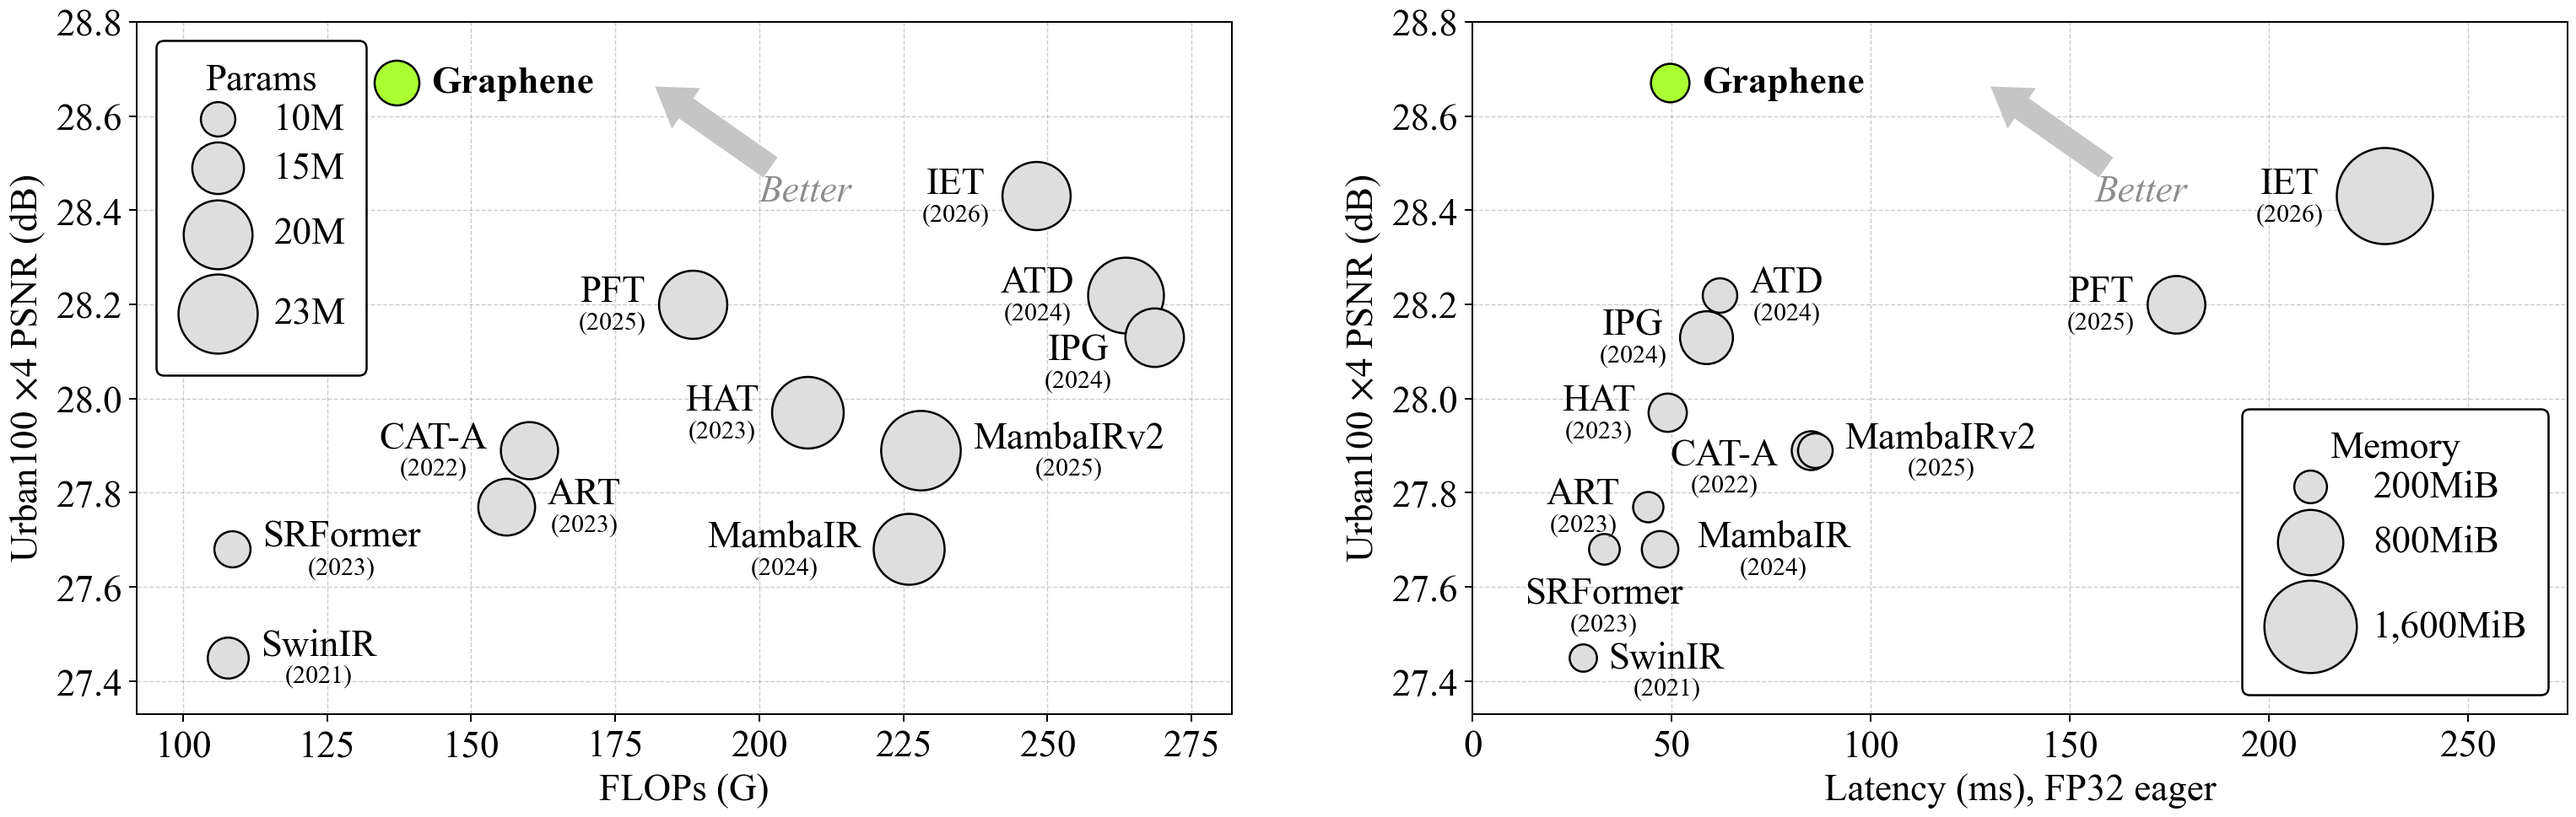
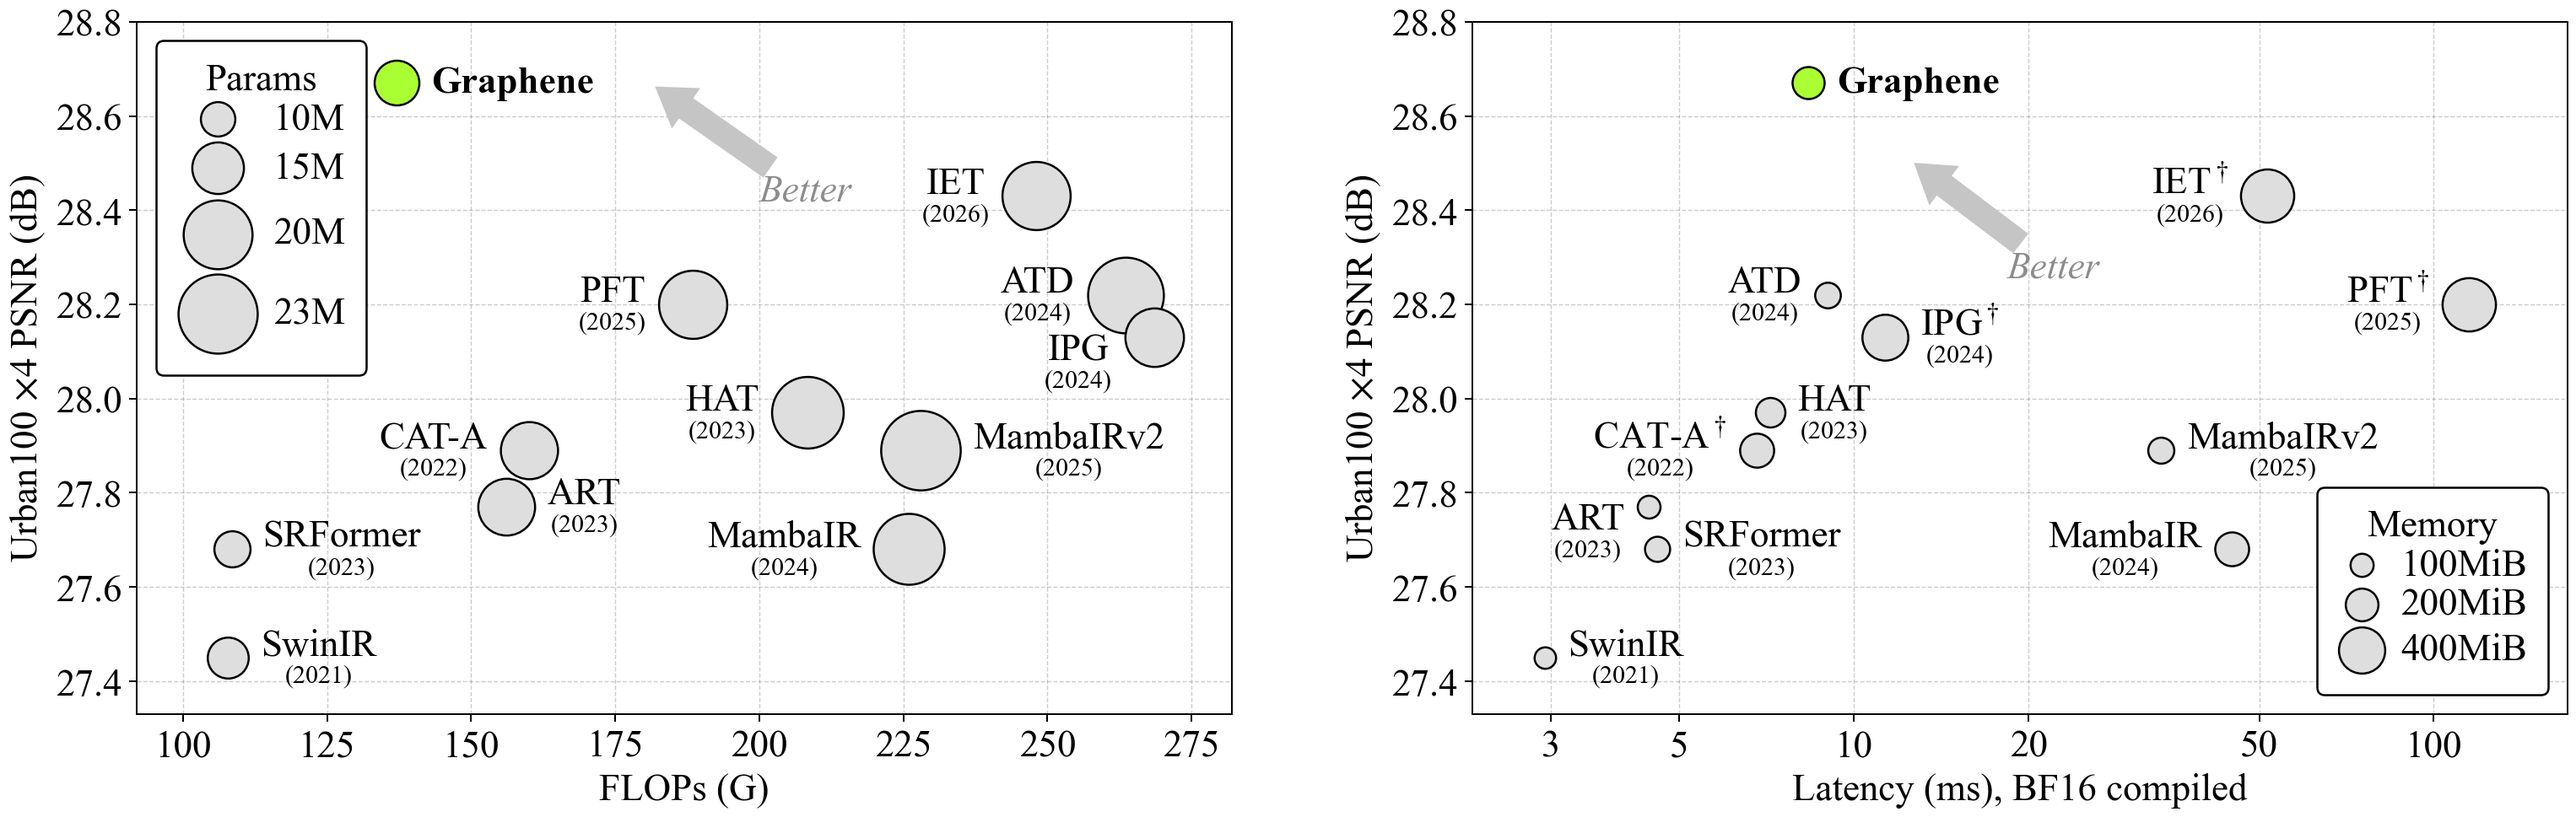
Use BF16 compiled efficiency figure in README

diff --git a/README.md b/README.md
@@ -13,8 +13,10 @@ ETH AI Center, ETH Zurich
 > **Abstract:** This paper proposes *Graphene*, a lightweight image super-resolution architecture with two complementary feature refinement mechanisms: Ising-model-inspired local feature refinement using an *Ising Refinement Block (IRB)* and stage-history-based feature refinement using a *History Attention (HistAttn)* module. The IRB reuses attention output features and pre-softmax attention logits to construct signed pairwise token couplings within each local window, applies unrolled mean-field updates, and refines features through a gated residual correction. These signed couplings allow alignment and opposition between latent spins to modulate local feature refinement. HistAttn attends over the current stage output and earlier representations at the same token position and adaptively blends the current stage output with a history-weighted feature aggregate without adding spatial pairwise attention. On Urban100 at ×4, Graphene and Graphene-light improve over IET and IET-light by **0.24 dB** and **0.38 dB**, respectively, with **34.3%/13.7% fewer parameters, 44.8%/44.4% fewer FLOPs, 78.4%/71.5% lower latency, and 83.9%/87.9% lower peak memory**. Real-world SR comparisons further show that Graphene recovers fine details and preserves textures across diverse degradations. Code and reference checkpoints are available at [github.com/skethz/Graphene](https://github.com/skethz/Graphene).
 
 <p align="center">
-  <img src="assets/efficiency.png" width="1000" alt="Graphene reconstruction quality versus FLOPs and FP32 eager latency">
+  <img src="assets/efficiency.png" width="1000" alt="Graphene reconstruction quality versus FLOPs and BF16 compiled latency">
 </p>
+
+Urban100 ×4 PSNR versus FLOPs (left; circle diameter: parameters) and latency (right, log scale; circle area: peak memory). All methods run BF16 compiled inference (BF16 autocast, `torch.compile` max-autotune, TF32 off) on a GH200 GPU with 64×64 LR inputs. †: one part of the official code cannot run this setting, so only that part is changed and the best value is reported (CAT-A: `view` after `torch.roll`; IPG: first-forward caches; PFT, IET: sparse-attention CUDA operators, in FP32 and FP16).
 
 ## 📑 Contents
 
